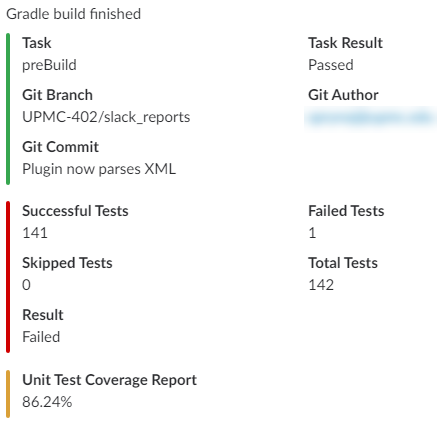
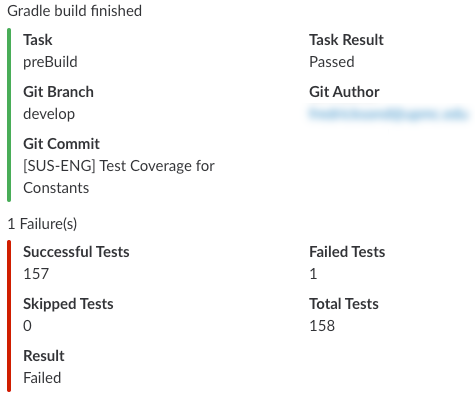
[FEATURE] Coverage Metric Types

diff --git a/README.md b/README.md
@@ -1,4 +1,4 @@
-[![Build Status](https://travis-ci.org/oliverspryn/gradle-slack-plugin.svg?branch=master)](https://travis-ci.org/oliverspryn/gradle-slack-plugin) [![Maintainability](https://api.codeclimate.com/v1/badges/a8ab706cad4edbac4e88/maintainability)](https://codeclimate.com/github/oliverspryn/gradle-slack-plugin/maintainability) [![](https://jitpack.io/v/com.github.oliverspryn/gradle-slack-plugin.svg)](https://jitpack.io/#com.github.oliverspryn/gradle-slack-plugin)
+[![Build Status](https://travis-ci.org/oliverspryn/gradle-slack-plugin.svg?branch=master)](https://travis-ci.org/oliverspryn/gradle-slack-plugin) [![Maintainability](https://api.codeclimate.com/v1/badges/a8ab706cad4edbac4e88/maintainability)](https://codeclimate.com/github/oliverspryn/gradle-slack-plugin/maintainability) [![Download](https://jitpack.io/v/com.github.oliverspryn/gradle-slack-plugin.svg)](https://jitpack.io/#com.github.oliverspryn/gradle-slack-plugin)
 
 # Gradle Slack plugin
 
@@ -11,12 +11,12 @@ This project builds upon the original [Gradle Slack plugin](https://github.com/M
 
 ## Usage
 
-The plugin is available in [JitPack](https://jitpack.io/). Just add the following to your buildscript dependencies:
+The plugin is available in [JitPack](https://jitpack.io/). Just add the following to your `buildscript` dependencies:
 
 ```groovy
 buildscript {
     dependencies {
-        classpath 'com.github.oliverspryn:gradle-slack-plugin:1.1.0'
+        classpath 'com.github.oliverspryn:gradle-slack-plugin:1.1.1'
     }
 
     repositories {
@@ -68,26 +68,34 @@ slack {
 }
 ```
 
-By default, everytime a build fails a slack message will be sent to the channel you configured. If a build succeeds nothing happens.
+By default, every time a build fails a slack message will be sent to the channel you configured. If a build succeeds nothing happens.
 
 There are more optional fields which enable you to further configure the Slack integration:
 
 ```groovy
 slack {
+    calculateAverageCoverage true
     coverageGood 90.0
+    coverageTypes 'branch', 'class', 'complexity', 'instruction', 'line', 'method'
     coverageWarn 80.0
     dependsOnTasks 'testDebug', 'publishApkRelease'
     enabled = isCDMachine()
+    showCoverage true
     showConsoleReports true
+    showUnitTest true
     url 'your WebHook URL'
 }
 ```
 
+* `calculateAverageCoverage`: `true` by default. If more than one `coverageType` is specified, this sets whether or not to calculate and display the average of all the coverage metrics, in addition to the `coverageTypes` specified below.
 * `coverageGood`: `90.0` by default. The minimum acceptable amount indicating whether Slack marks the coverage percentage as green.
+* `coverageTypes`: `instruction` by default. Displays the various types metrics calculated by Jacoco. By default, Jacoco calculates: 'branch', 'class', 'complexity', 'instruction', 'line' and 'method'. This list may contain any combination of these values.
 * `coverageWarn`: `80.0` by default. The minimum warning amount indicating whether Slack marks the coverage percentage as yellow.
 * `dependsOnTasks`: Empty by default. Specify a list of tasks which will trigger a message to Slack, regardless of whether it failed or succeeded.
 * `enabled`: `true` by default. A boolean to define whether or not the Slack integration is active, useful to avoid sending messages on your local builds.
+* `showCoverage`: `true` by default. Show the coverage metrics in a Slack message, and in the console, if `showConsoleReports` is `true`.
 * `showConsoleReports`: `true` by default. A boolean indicating whether or not the plugin prints the same output to the build console.
+* `showUnitTest`: `true` by default. Show the number of passing and failing unit tests in a Slack message, and in the console, if `showConsoleReports` is `true`.
 
 ## Credits
 
